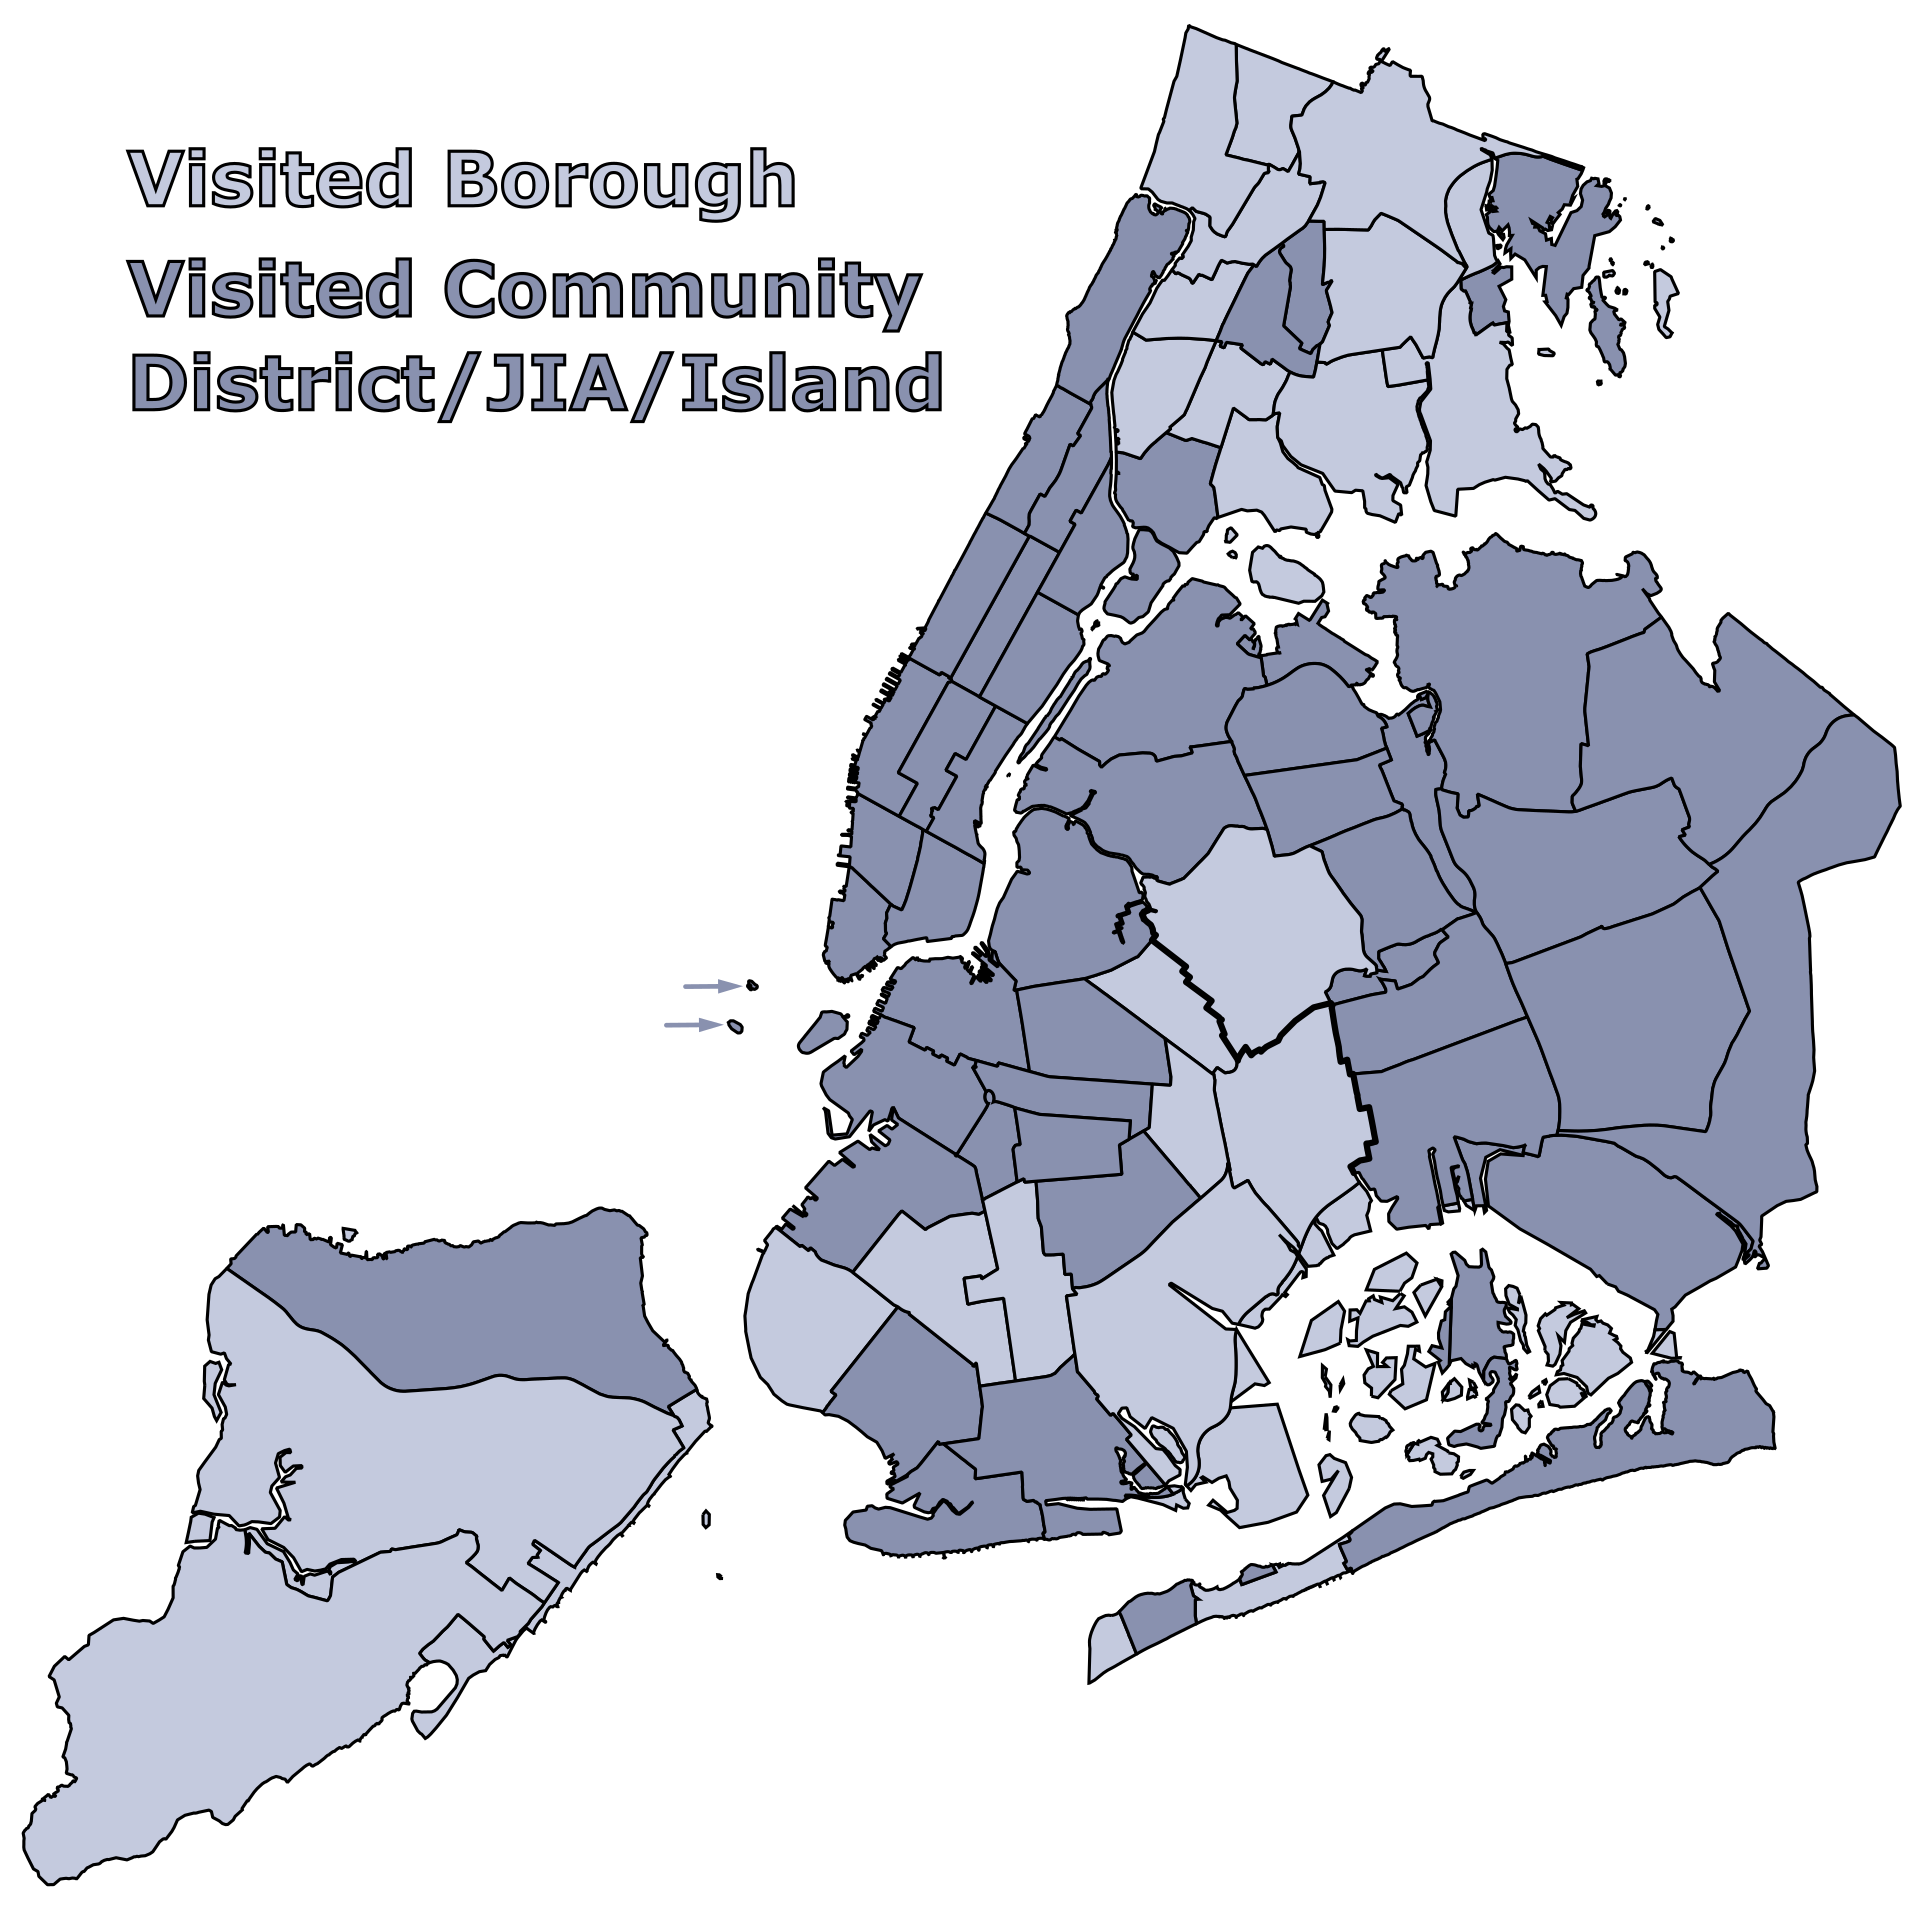
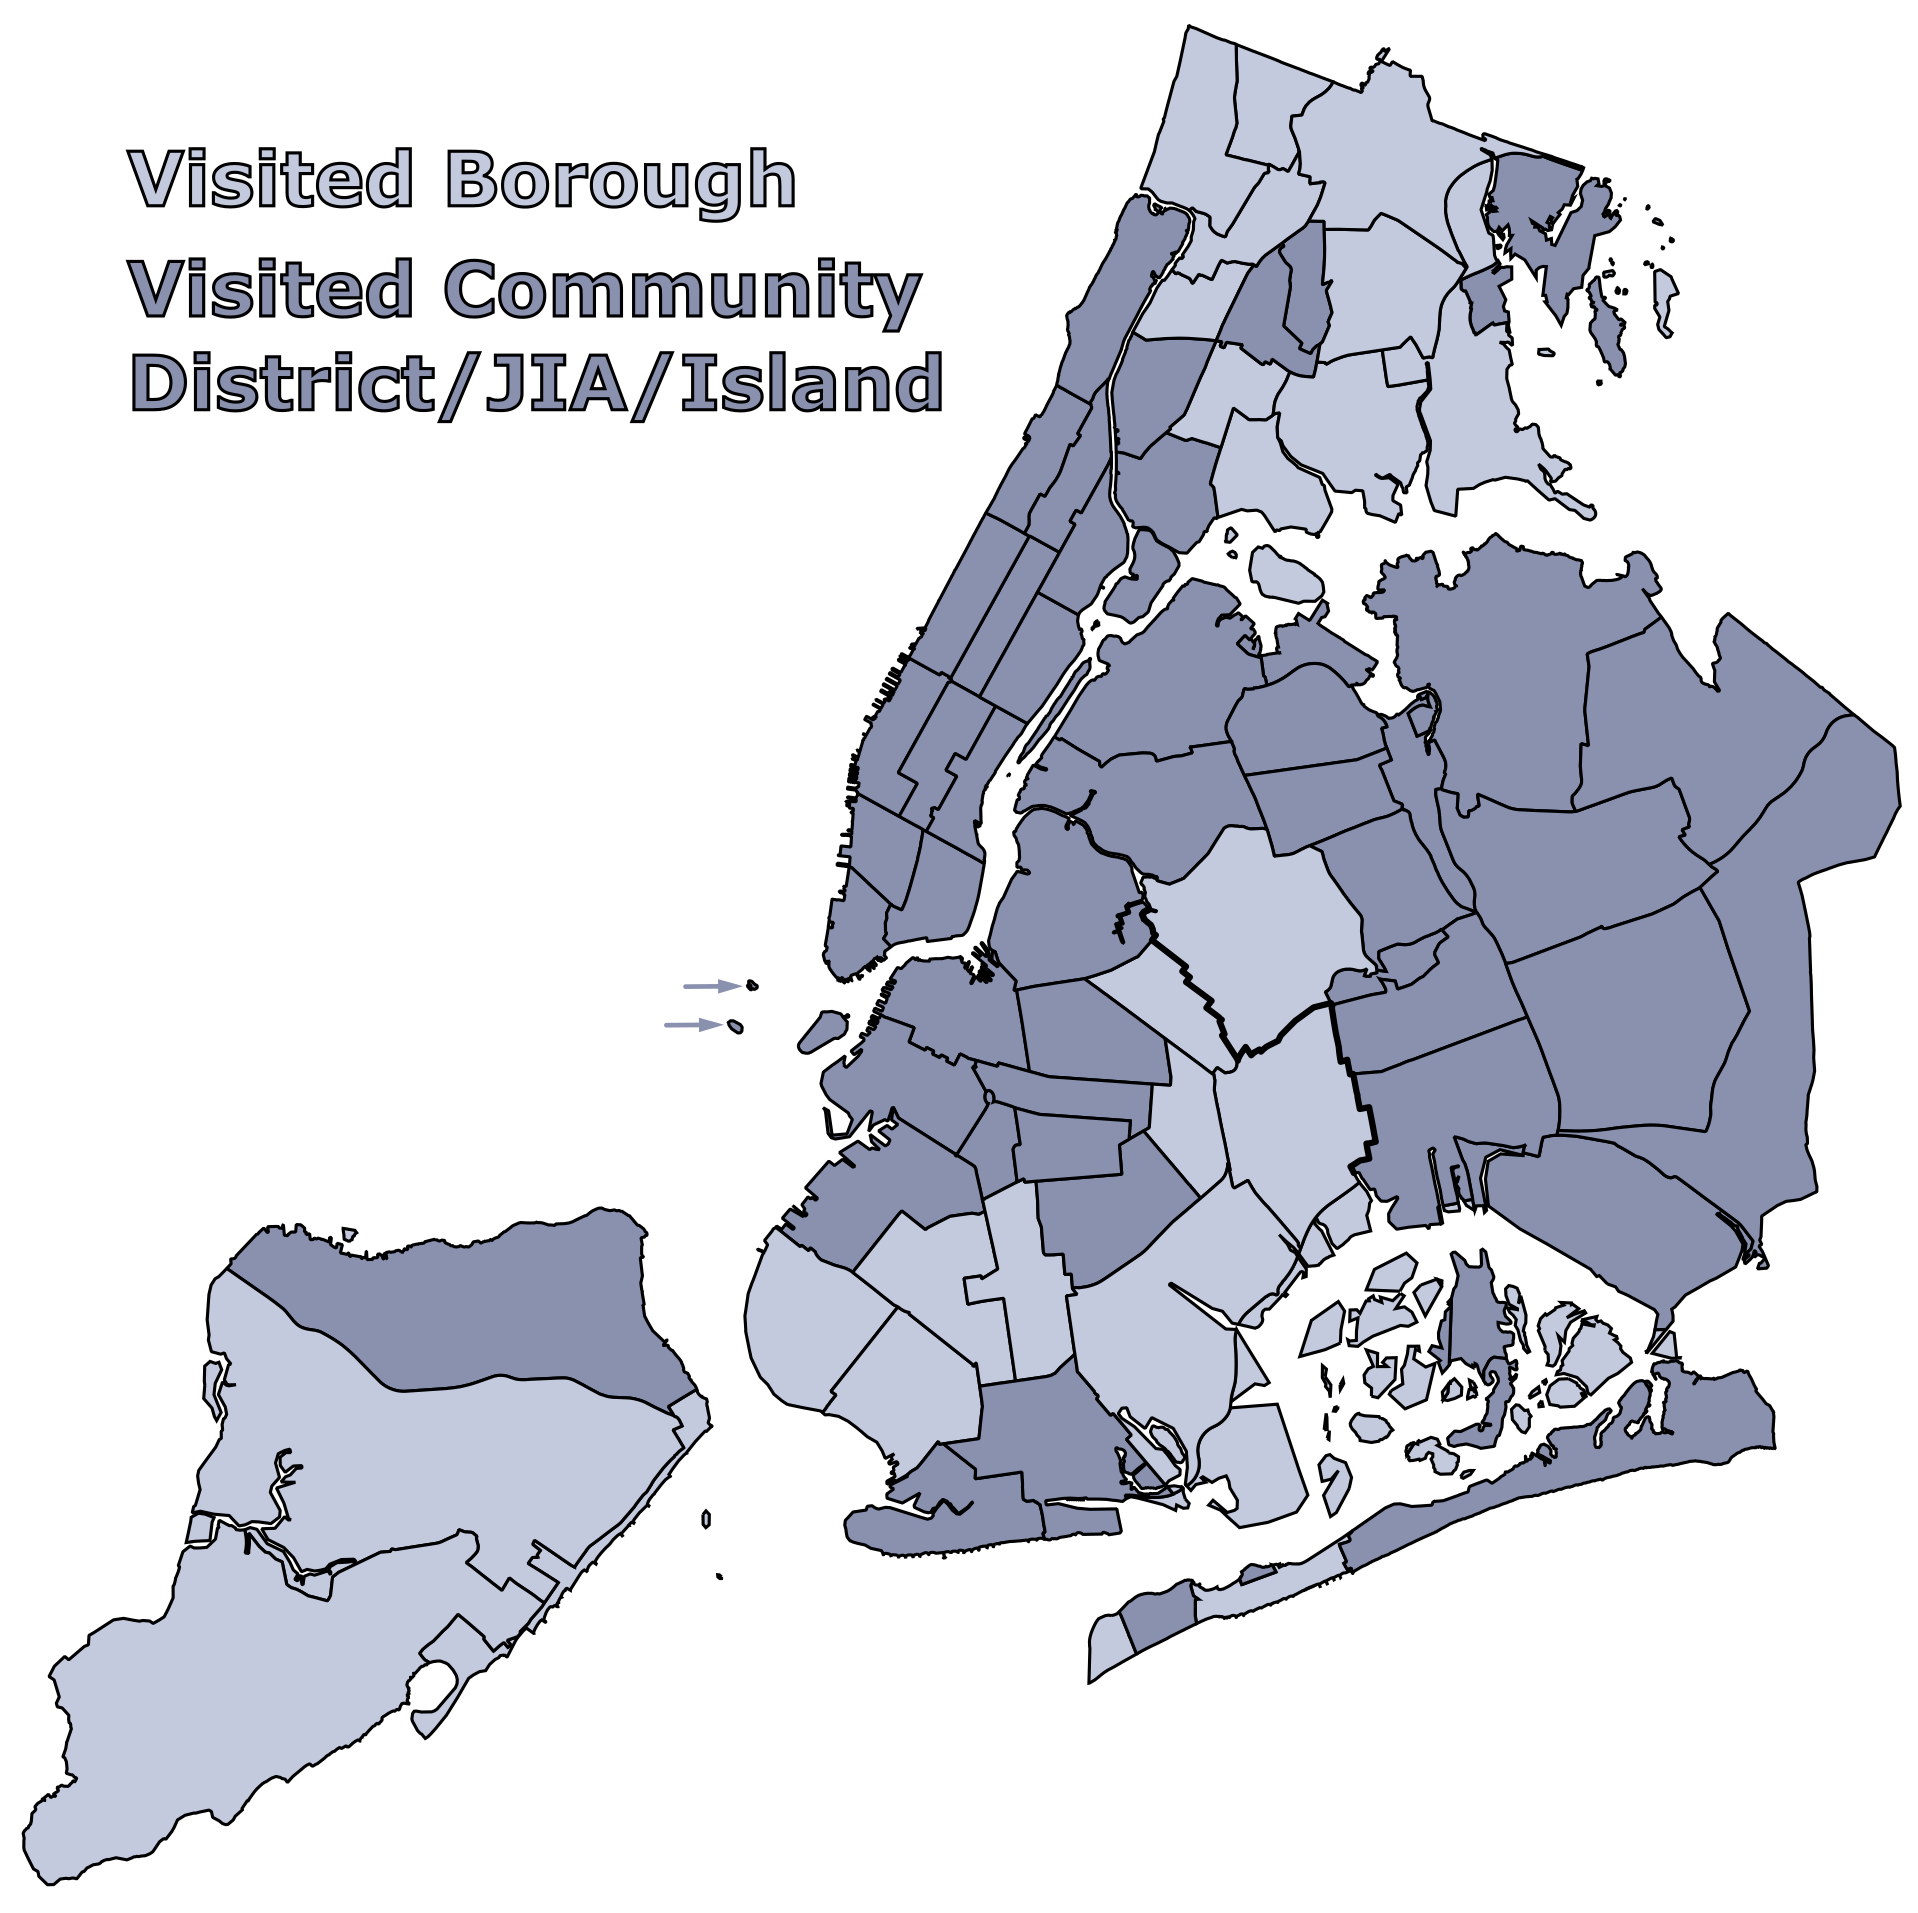
s26

Changed region(s): [[0.4307, 0.6785, 0.5229, 0.771], [0.5845, 0.1542, 0.646, 0.2467]]

diff --git a/index.html b/index.html
@@ -39,7 +39,7 @@
 
 
     <ul style="list-style-type:disc">
-      <li><a href="#Current">Fall 2025 Information</a></li>
+      <li><a href="#Current">Spring 2026 Information</a></li>
       <li><a href="#Aboutme">About Me</a></li>
       <li><a href="#Publications">Journal Articles</a></li>
       <li><a href="#Proceedings">Proceedings</a></li>
@@ -166,32 +166,23 @@ speech?</emph></a></p>-->
 
     <h4>Current Courses</h4>
 
-  <p><strong><a href="https://linguistics.stonybrook.edu/academics/_courses/2025_spring_undergrad.php?accordion=undefined">LIN
-  330: Language Acquisition</a></strong> Monday/Wednesday
+  <p><strong><a href="https://linguistics.stonybrook.edu/academics/_courses/2026_spring_undergrad.php">LIN
+  335: Language Acquisition</a></strong> Monday/Wednesday
+  11:00-12:20pm.</p>
+
+
+  <p><strong>The official description:</strong><br><em>An introduction to computational linguistics for students with previous programming experience. This course explores the models, algorithms, and techniques that dominate modern-day language technology, and it evaluates them from a linguistically informed perspective. Topics include corpus-based methods, finite-state approaches, machine learning, and model evaluation techniques. Great emphasis is put on discussing the limitations of existing techniques and how they might benefit from linguistic insights. Students will also hone their programming skills and develop familiarity with state-of-the-art software packages for computational linguistics. Formerly offered as LIN 220; not for credit in addition to LIN 220.</em></p>
+
+  <p style="padding-bottom:50px"><strong>SBCs</strong>: STEM+</p>
+
+  <p><strong><a href="https://linguistics.stonybrook.edu/academics/_courses/2026_spring_courses_grad.php">LIN
+  655: Computational Linguistics Seminar: Variationist Sociolinguistics</a></strong> Monday/Wednesday
   3:30-4:50pm.</p>
 
+ <p><strong>A
+ description:</strong><br><em>The spring 2026 iteration of LIN 655 Computational Linguistics Seminar will be an introduction to sociolinguistics from a quantitative variationist perspective, with a special focus on computational modeling methodologies. Variation, which is observable across all levels of linguistic structure and derives from a range of distinct mechanisms, is an inescapable part of language use. For theoretical and computational linguists, variationist sociolinguistics provides a framework for reasoning about and accounting for the types of variation that we inevitably encounter when working with naturalistic language corpora and other forms of real-world data.</em></p>
 
-  <p><strong>The official description:</strong><br><em>Introduction to
-  the field of language acquisition. Topics include cognitive
-  processes, role of innate ability and environment, developmental
-  stages, individual variation, universal tendencies, interaction of
-  language and cognition, bilingualism, similarities and differences
-  between first- and second-language acquisition, and language
-  disorders..</em></p>
-
-  <p style="padding-bottom:50px"><strong>SBCs</strong>: ESI, SBS+,
-  STEM+</p>
-
-  <p><strong><a href="https://www.stonybrook.edu/commcms/linguistics/academics/_courses/2024_fall_grad.php?accordion=undefined">LIN
-  535: Historical Linguistics</a></strong> Tuesday/Thursday
-  3:30-4:50pm.</p>
-
- <p style="padding-bottom:50px"><strong>A
- description:</strong><br><em>A study of linguistic change. Some
- general topics to be discussed are the genetic classification of
- languages; language families, language, and prehistory;
- reconstruction; types of sound change; types of semantic change;
- borrowing.</em></p>
+ <p style="padding-bottom:50px"><em>Traditional quantitative variationist analysis makes use of tools from linguistic fieldwork, corpus linguistics, and acoustic phonetics to uncover linguistic variables and their statistical relationships with speaker demographics and speech contexts. In addition to covering these approaches, this seminar will move beyond them to survey two broader computational modeling areas: computational modeling of social networks and speech communities and computational learning models in the context of variation in the input. These lesser known research areas extend the computational base of sociolinguistics. </em></p>
 
   
     <ul style="list-style-type:disc">